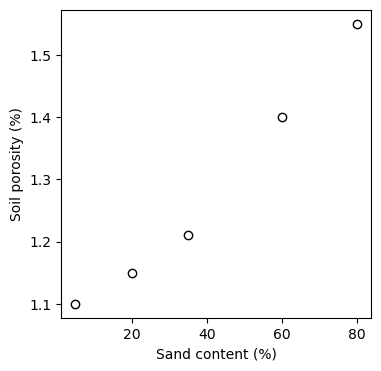
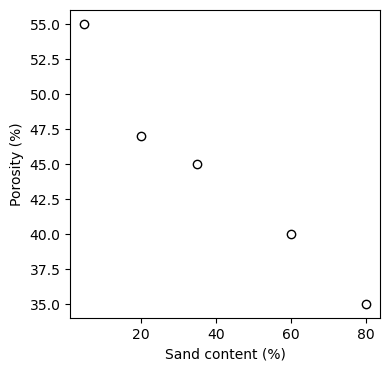
Update notebook

diff --git a/docs/basic_concepts/import_modules.html b/docs/basic_concepts/import_modules.html
@@ -928,7 +928,7 @@ Import modules convention
 </div>
 </div>
 <p><strong>Option 2</strong><br> Syntax: <code>import &lt;module&gt; as &lt;alias&gt;</code> <br> Example: <code>import numpy as np</code><br> Use-case: This is used to import the entire module under a shorter, often more convenient alias. It’s particularly useful for frequently used modules or those with longer names. The alias acts as a shorthand, making the code more concise and easier to write. For instance, you can use <code>np.array()</code> instead of <code>numpy.array()</code>.</p>
-<div id="cell-8" class="cell" data-execution_count="16">
+<div id="cell-8" class="cell" data-execution_count="7">
 <div class="sourceCode cell-code" id="cb5"><pre class="sourceCode python code-with-copy"><code class="sourceCode python"><span id="cb5-1"><a href="#cb5-1" aria-hidden="true" tabindex="-1"></a><span class="im">import</span> numpy <span class="im">as</span> np</span>
 <span id="cb5-2"><a href="#cb5-2" aria-hidden="true" tabindex="-1"></a></span>
 <span id="cb5-3"><a href="#cb5-3" aria-hidden="true" tabindex="-1"></a><span class="co"># Create an Numpy array of sand content for different soils</span></span>
@@ -936,22 +936,22 @@ Import modules convention
 <span id="cb5-5"><a href="#cb5-5" aria-hidden="true" tabindex="-1"></a><span class="bu">print</span>(sand_content)</span>
 <span id="cb5-6"><a href="#cb5-6" aria-hidden="true" tabindex="-1"></a></span>
 <span id="cb5-7"><a href="#cb5-7" aria-hidden="true" tabindex="-1"></a><span class="co"># Create regular list and then convert to Numpy array</span></span>
-<span id="cb5-8"><a href="#cb5-8" aria-hidden="true" tabindex="-1"></a>bulk_density <span class="op">=</span> [<span class="fl">1.1</span>, <span class="fl">1.15</span>, <span class="fl">1.21</span>, <span class="fl">1.4</span>, <span class="fl">1.55</span>]</span>
-<span id="cb5-9"><a href="#cb5-9" aria-hidden="true" tabindex="-1"></a>bulk_density <span class="op">=</span> np.array(bulk_density)</span>
-<span id="cb5-10"><a href="#cb5-10" aria-hidden="true" tabindex="-1"></a><span class="bu">print</span>(bulk_density)</span></code><button title="Copy to Clipboard" class="code-copy-button"><i class="bi"></i></button></pre></div>
+<span id="cb5-8"><a href="#cb5-8" aria-hidden="true" tabindex="-1"></a>porosity <span class="op">=</span> [<span class="dv">55</span>, <span class="dv">47</span>, <span class="dv">45</span>, <span class="dv">40</span>, <span class="dv">35</span>]</span>
+<span id="cb5-9"><a href="#cb5-9" aria-hidden="true" tabindex="-1"></a>porosity <span class="op">=</span> np.array(porosity)</span>
+<span id="cb5-10"><a href="#cb5-10" aria-hidden="true" tabindex="-1"></a><span class="bu">print</span>(porosity)</span></code><button title="Copy to Clipboard" class="code-copy-button"><i class="bi"></i></button></pre></div>
 <div class="cell-output cell-output-stdout">
 <pre><code>[ 5 20 35 60 80]
-[1.1  1.15 1.21 1.4  1.55]</code></pre>
+[55 47 45 40 35]</code></pre>
 </div>
 </div>
 <p><strong>Option 3</strong><br> Syntax: <code>import &lt;module&gt;.&lt;submodule&gt; as &lt;alias&gt;</code><br> Example: <code>import matplotlib.pyplot as plt</code> Use-case: This approach is used when you only need a specific part or submodule of a larger module. It’s efficient as it only loads the required submodule into memory. The alias is used for ease of reference, as in <code>plt.plot()</code> instead of using <code>matplotlib.pyplot.plot()</code>, which will be much more verbose and will result in cluttered lines of code.</p>
-<div id="cell-10" class="cell" data-execution_count="19">
+<div id="cell-10" class="cell" data-execution_count="10">
 <div class="sourceCode cell-code" id="cb7"><pre class="sourceCode python code-with-copy"><code class="sourceCode python"><span id="cb7-1"><a href="#cb7-1" aria-hidden="true" tabindex="-1"></a><span class="im">import</span> matplotlib.pyplot <span class="im">as</span> plt</span>
 <span id="cb7-2"><a href="#cb7-2" aria-hidden="true" tabindex="-1"></a></span>
 <span id="cb7-3"><a href="#cb7-3" aria-hidden="true" tabindex="-1"></a>plt.figure(figsize<span class="op">=</span>(<span class="dv">4</span>,<span class="dv">4</span>))</span>
-<span id="cb7-4"><a href="#cb7-4" aria-hidden="true" tabindex="-1"></a>plt.scatter(sand_content, bulk_density, facecolor<span class="op">=</span><span class="st">'white'</span>, edgecolor<span class="op">=</span><span class="st">'black'</span>)</span>
+<span id="cb7-4"><a href="#cb7-4" aria-hidden="true" tabindex="-1"></a>plt.scatter(sand_content, porosity, facecolor<span class="op">=</span><span class="st">'white'</span>, edgecolor<span class="op">=</span><span class="st">'black'</span>)</span>
 <span id="cb7-5"><a href="#cb7-5" aria-hidden="true" tabindex="-1"></a>plt.xlabel(<span class="st">'Sand content (%)'</span>)</span>
-<span id="cb7-6"><a href="#cb7-6" aria-hidden="true" tabindex="-1"></a>plt.ylabel(<span class="st">'Soil porosity (%)'</span>)</span>
+<span id="cb7-6"><a href="#cb7-6" aria-hidden="true" tabindex="-1"></a>plt.ylabel(<span class="st">'Porosity (%)'</span>)</span>
 <span id="cb7-7"><a href="#cb7-7" aria-hidden="true" tabindex="-1"></a>plt.show()</span></code><button title="Copy to Clipboard" class="code-copy-button"><i class="bi"></i></button></pre></div>
 <div class="cell-output cell-output-display">
 <div>
